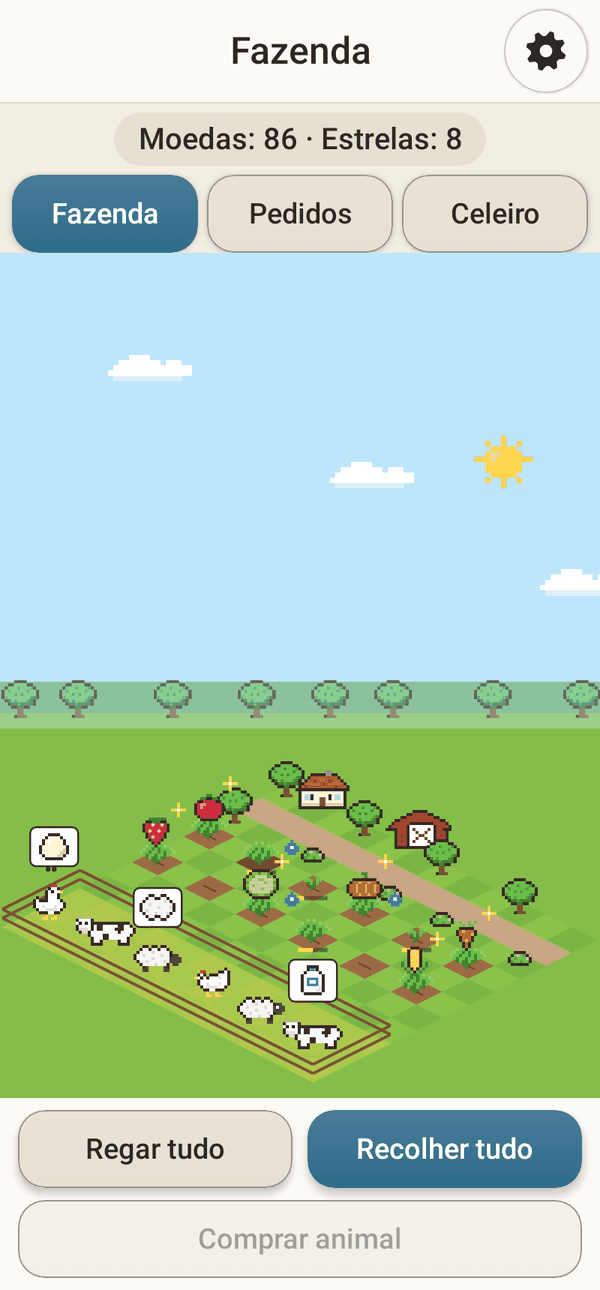
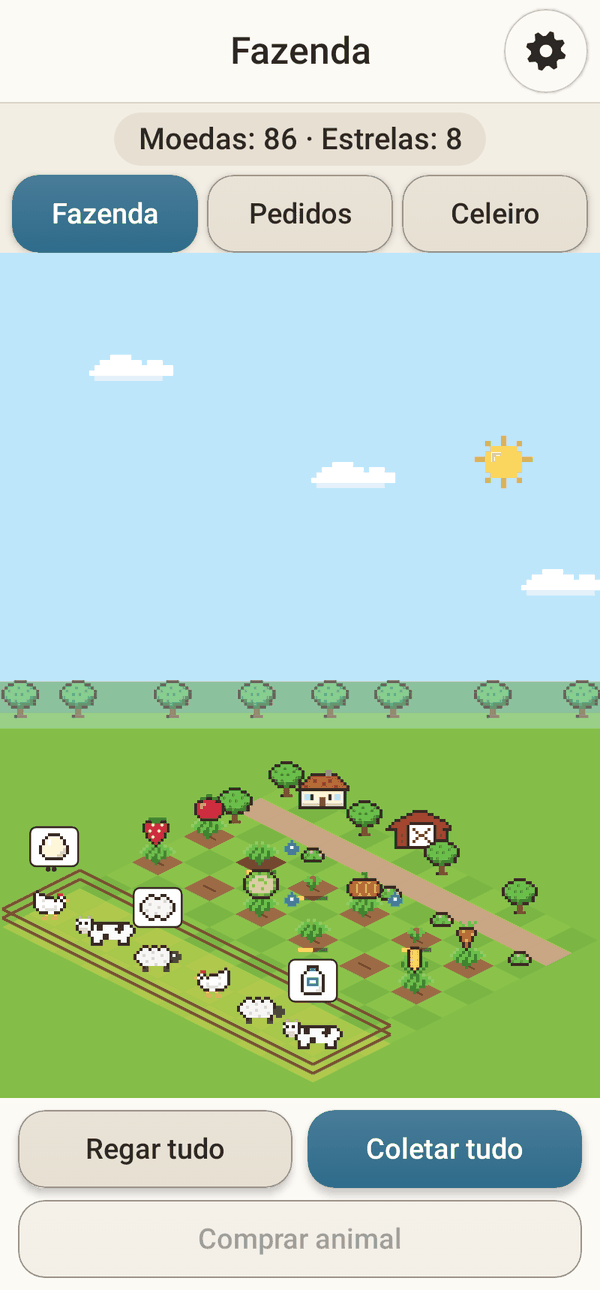
fix(farm): call the merged button Coletar tudo in Portuguese

diff --git a/docs/pt-BR/games/farm.md b/docs/pt-BR/games/farm.md
@@ -10,7 +10,7 @@ Três botões em cima abrem a **Fazenda**, os **Pedidos** e o **Celeiro**. Suas 
 - Toque num **canteiro vazio** (só a terra marrom) e escolha o que plantar. Cada semente custa algumas moedas.
 - A planta cresce sozinha, no tempo de verdade: primeiro um brotinho, depois uma planta nova com uma barrinha que vai enchendo, depois a colheita madura, que brilha. Toque num canteiro que está crescendo para ver o nome e o tempo que falta.
 - **Regar** (toque num canteiro com uma gota azul, ou em **Regar tudo**) faz o resto do crescimento andar duas vezes mais rápido. Uma vez por plantação basta.
-- Toque num canteiro maduro: ele dá **dois** do que foi plantado, que vão direto para o celeiro. **Recolher tudo** faz isso com todos os canteiros maduros de uma vez e também leva o que os animais produziram. O botão acende quando há algo pronto e diz o que foi para o celeiro, como "No celeiro: Alface ×4, Ovo ×2".
+- Toque num canteiro maduro: ele dá **dois** do que foi plantado, que vão direto para o celeiro. **Coletar tudo** faz isso com todos os canteiros maduros de uma vez e também leva o que os animais produziram. O botão acende quando há algo pronto e diz o que foi para o celeiro, como "No celeiro: Alface ×4, Ovo ×2".
 - **Novo canteiro** aumenta a horta, até doze canteiros. Antes ele pergunta, com o desenho de um canteiro crescendo, e só aparece se já houver algo plantado: assim sempre tem uma colheita para vender. O canteiro novo pisca por um momento, para você ver onde ele ficou.
 
 | Planta | Tempo | Semente | Vende por (cada) | Estrelas |
@@ -23,7 +23,7 @@ Três botões em cima abrem a **Fazenda**, os **Pedidos** e o **Celeiro**. Suas 
 | Abóbora | 90 min | 20 | 28 | 8 |
 
 ## Os animais
-Compre animais em **Comprar animal**. Cada um produz sozinho e guarda até **três** produtos esperando, mostrados num balãozinho acima dele; toque no animal (ou em **Recolher tudo**, que também colhe os canteiros maduros) para levá-los ao celeiro.
+Compre animais em **Comprar animal**. Cada um produz sozinho e guarda até **três** produtos esperando, mostrados num balãozinho acima dele; toque no animal (ou em **Coletar tudo**, que também colhe os canteiros maduros) para levá-los ao celeiro.
 
 | Animal | Dá | A cada | Custa | Vende por | Estrelas |
 |---|---|---|---|---|---|
